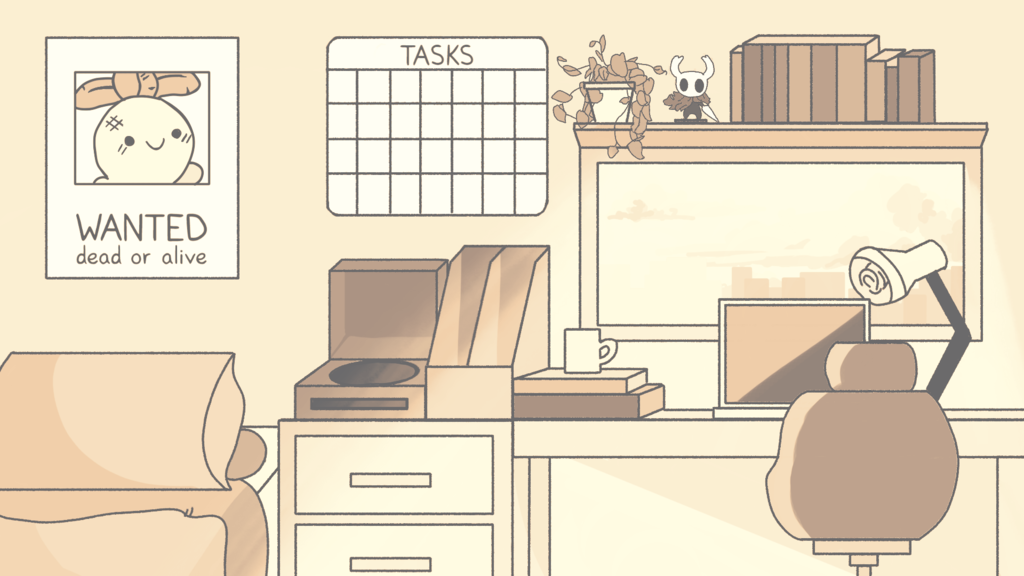
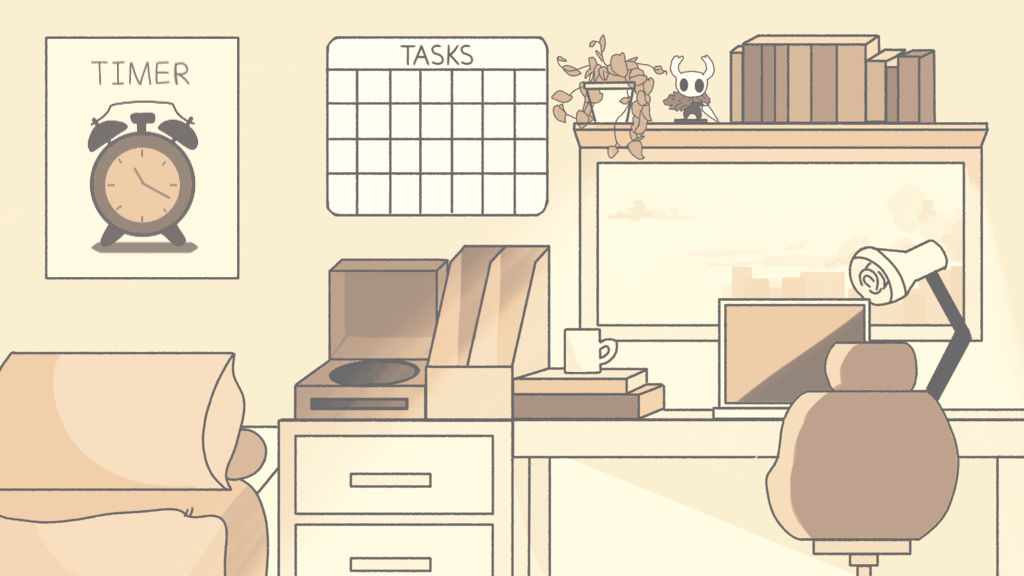
Add changes for to-do list

Changed region(s): [[0.0625, 0.0938, 0.2188, 0.4688]]

diff --git a/src/main.py b/src/main.py
@@ -23,14 +23,15 @@ screen_rect = screen.get_rect()
 pygame.display.set_caption("Chilist")
 font = pygame.font.Font("src\sysfont\sysfont\sysfont.ttf", 15)
 task_font = pygame.font.Font("src\sysfont\sysfont\sysfont.ttf", 20)
-title_font = pygame.font.Font("src\sysfont\sysfont\sysfont.ttf", 30)
+title_font = pygame.font.Font("src\sysfont\sysfont\sysfont.ttf", 25)
+pygame.display.set_icon(pygame.image.load(r"src\img\favicon.png"))
 done = False              
 scene = 0
 clock = pygame.time.Clock()
 
 ##### EVENTS #####
 NEXT = pygame.USEREVENT + 1
-vinylWindow_open, calendar_open, firstPlay, play, placed = False, False, False, False, False
+vinylWindow_open, calendar_open, todoTimer_open, firstPlay, play, placed = False, False, False, False, False, False
 
 ##### OBJECTS #####
 # make playlist out of existing mp3 files
@@ -48,8 +49,7 @@ attributes = {"username": os.getlogin(),
               "time":  (strftime("%H", localtime()), strftime("%M", localtime()))
               }
 boundaries = [(0,12, "morning"), (12, 17, "afternoon"), (17, 20, "evening"), (20, 24, "night")] # these are the defined hour boundaries in 24 hour time for what constitutes  day, afternoon, evening or  night (imo)
-attributes["time_period"] = [boundary[2] for boundary in boundaries if boundary[0] < int(attributes["time"][0]) < boundary[1]][0]
-
+attributes["time_period"] = [boundary[2] for boundary in boundaries if boundary[0] <= int(attributes["time"][0]) < boundary[1]][0]
 
 textinput = pygame_textinput.TextInputVisualizer(font_object=font, font_color=(255,255,255), cursor_color=(255,255,255))
 
@@ -69,23 +69,26 @@ while not done:
     if scene == 0: 
         if attributes["time_period"] == "afternoon" or attributes["time_period"] == "evening":
             backdrop = Backdrop(screen, "src/img/afternoon.png")
+            multiline(screen, [f"Good {attributes['time_period']}, {attributes['username']}.", f"It is {attributes['day_name']}, {attributes['month']} {attributes['day_date']}"], title_font, "center", colour=(22,9,55), x=520, y=180, w=20)
         else: 
             backdrop = Backdrop(screen, f"src/img/{attributes['time_period']}.png")
-        multiline(screen, [f"Good {attributes['time_period']}, {attributes['username']}.", f"It is {attributes['day_name']}, {attributes['month']} {attributes['day_date']}"], title_font, "center", x=520, y=180, w=20)
+            multiline(screen, [f"Good {attributes['time_period']}, {attributes['username']}.", f"It is {attributes['day_name']}, {attributes['month']} {attributes['day_date']}"], title_font, "center", x=520, y=180, w=20)
         if event.type == pygame.MOUSEBUTTONDOWN:
             scene = 1
     
     elif scene == 1:
         backdrop = Backdrop(screen, "src/img/roomlinesSUNRISE.png")
-        bountiesPoster = Interactive(screen, "[!] A bounties poster.", x=46, y=39, w=190, h=238)
+        todoTimer = Interactive(screen, "[!] A timer.", x=46, y=39, w=190, h=238)
         vinylPlayer = Interactive(screen, "[!] A vinyl player.", x=294, y=261, w=152, h=158)
         calendar = Interactive(screen,"[!] A calendar.", x=327, y=38, w=221, h=178)
         closeButton = Interactive(screen,"", x=840, y=75, w=54, h=50)
-        if vinylWindow_open == False and calendar_open == False: 
+        if vinylWindow_open == False and calendar_open == False and todoTimer_open == False: 
             if checkClick(vinylPlayer, pygame.mouse.get_pos(), event_list):
                 vinylWindow_open = True
             if checkClick(calendar, pygame.mouse.get_pos(), event_list):
                 calendar_open = True
+            if checkClick(todoTimer, pygame.mouse.get_pos(), event_list):
+                todoTimer_open = True
 
         if vinylWindow_open == True:
             vinylWindow = Window(screen, "https://music.com/lofi")
@@ -147,8 +150,15 @@ while not done:
 
             if checkClick(trashBin, pygame.mouse.get_pos(), event_list):
                 stickers = []
+        elif todoTimer_open == True:
+            todoTimerWindow = Window(screen, "https://todolist.com/pomodorotimer")
+            todolayout = Interactive(screen, "", img="src/img/timermockup.png", x=130, y=130)
+            if stickers:
+                multiline(screen, [i["desc"] if len(i["desc"]) < 19 else i["desc"][:16]+"..." for i in stickers[:6]], title_font, "topleft", colour=(202, 182, 169), x=625, y=230, w=20)
+            else: 
+                multiline(screen, ["No tasks! :)", "Try adding some using", "the Eisenhower matrix."], task_font, "topleft", colour=(202, 182, 169), x=625, y=230, w=10)
         if checkClick(closeButton, pygame.mouse.get_pos(), event_list):
-            calendar_open, vinylWindow_open = False, False
+            calendar_open, vinylWindow_open, todoTimer_open = False, False, False
 
     ##### Drawing code #####
     pygame.display.flip()
